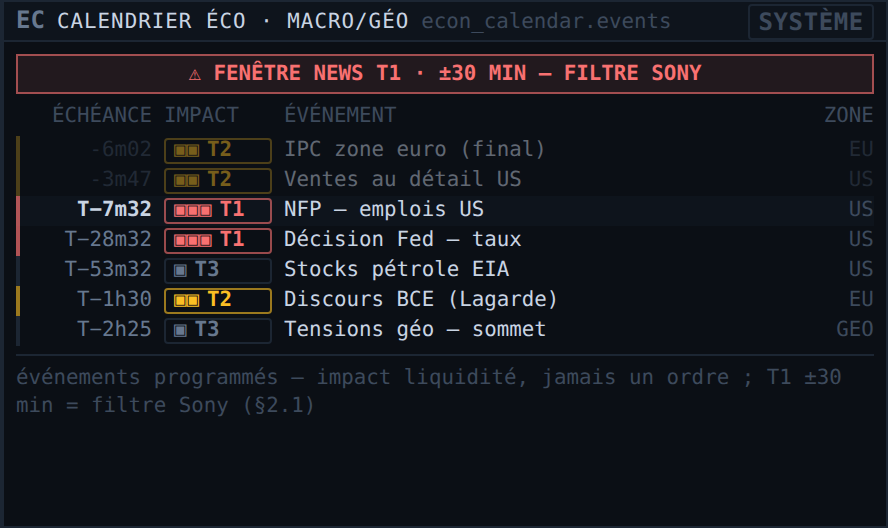
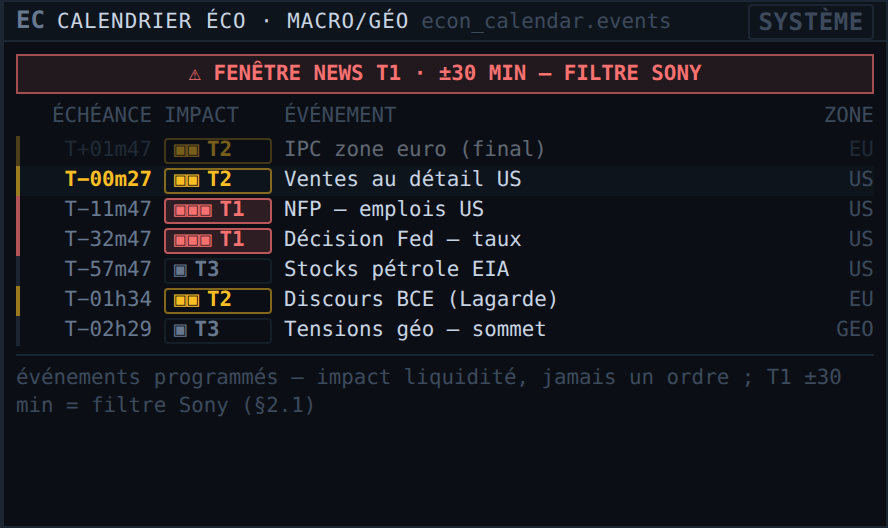
polish(Loop 5) : ergonomie du calendrier éco — hiérarchie T1, imminence, échéances alignées
Loop 5 sur econ_calendar.events (affichage pur, aucun changement de comportement) :
- CONTRASTE D'IMPACT : chip T1 REMPLIE (bg rouge 15 %) — un impact FORT se voit de loin ;
  T2 bordée, T3 discrète ; libellé des T1 à venir en demi-gras. Toujours forme (nb de
  carrés ▣) + code texte T1/T2/T3, jamais la couleur seule (§3)
- IMMINENCE : échéance future ≤ 10 min → countdown en GRAS + teinte du tier (rouge T1 /
  jaune T2) + info-bulle « imminent » ; l'information reste portée par la VALEUR du
  countdown elle-même, le style ne fait qu'appuyer (§3)
- ALIGNEMENT STRICT : échéances à LARGEUR CONSTANTE 7 caractères — nomenclature lancement
  T−/T+ (« T+ » remplace le « - » ambigu pour l'écoulé), corps toujours 5 caractères
  zéro-paddés (T−07m32, T−01h34, T+01m47) → colonne parfaitement rectiligne

Garde-fous : bannières flux muet / périmé / fenêtre T1 et PAS DE DONNÉES intactes ; passé
estompé inchangé ; aucun état dur masqué (§2/§3). Vérifié : tsc · vite build ; capture
réelle docs/econ-calendar.png — alignement 7 chars sur les 7 lignes, T2 imminent gras
jaune surligné, chips T1 remplies.

Claude-Session: https://claude.ai/code/session_01AWEeod2JKSioPMjeLEK9wN

diff --git a/frontend/src/panels/zoneA/EconCalendarPanel.tsx b/frontend/src/panels/zoneA/EconCalendarPanel.tsx
@@ -18,40 +18,59 @@ import type { EconEvent } from '@/types/schema'
 
 const BLACKOUT_S = 30 * 60  // fenêtre Tier-1 ±30 min (reference/MANIFEST §Sony·SVS)
 
-const TIER: Record<number, { squares: string; word: string; cls: string }> = {
-  1: { squares: '▣▣▣', word: 'FORT', cls: 'text-risk-red border-risk-red/60' },
-  2: { squares: '▣▣', word: 'MODÉRÉ', cls: 'text-risk-yellow border-risk-yellow/60' },
-  3: { squares: '▣', word: 'FAIBLE', cls: 'text-term-dim border-term-border' },
+// Hiérarchie visuelle T1 > T2 > T3 : chip T1 REMPLIE (l'impact fort se voit de loin),
+// T2 bordée, T3 discrète — toujours forme (nb de carrés) + code texte, jamais la couleur
+// seule (§3).
+const TIER: Record<number, { squares: string; word: string; cls: string; tint: string }> = {
+  1: { squares: '▣▣▣', word: 'FORT', tint: 'text-risk-red',
+       cls: 'text-risk-red border-risk-red/70 bg-risk-red/15' },
+  2: { squares: '▣▣', word: 'MODÉRÉ', tint: 'text-risk-yellow',
+       cls: 'text-risk-yellow border-risk-yellow/50' },
+  3: { squares: '▣', word: 'FAIBLE', tint: 'text-term-text',
+       cls: 'text-term-dim border-term-border/60' },
 }
 
-/** Compte à rebours précis (H/M/S) vers un `ts` connu. Passé → « il y a … ». */
+const IMMINENT_S = 10 * 60  // échéance ≤ 10 min → countdown accentué
+
+/** Compte à rebours à LARGEUR CONSTANTE (7 caractères, alignement strict) vers un `ts`
+ *  connu. Nomenclature lancement : `T−` avant l'heure H, `T+` après — corps toujours
+ *  5 caractères zéro-paddés (`07m32`, `01h30`). */
 function countdown(secs: number): { label: string; past: boolean } {
   const past = secs < 0
   const a = Math.abs(secs)
   const h = Math.floor(a / 3600), m = Math.floor((a % 3600) / 60), s = Math.floor(a % 60)
   const core = h > 0
-    ? `${h}h${String(m).padStart(2, '0')}`
-    : `${m}m${String(s).padStart(2, '0')}`
-  return { label: past ? `-${core}` : core, past }
+    ? `${String(h).padStart(2, '0')}h${String(m).padStart(2, '0')}`
+    : `${String(m).padStart(2, '0')}m${String(s).padStart(2, '0')}`
+  return { label: `${past ? 'T+' : 'T−'}${core}`, past }
 }
 
 function Row({ e, now, next }: { e: EconEvent; now: number; next: boolean }) {
   const t = TIER[e.tier] ?? TIER[3]
-  const { label, past } = countdown(e.ts - now)
+  const secs = e.ts - now
+  const { label, past } = countdown(secs)
+  // Imminent (≤ 10 min à venir) : gras + teinte du tier. L'imminence reste portée par la
+  // VALEUR du countdown elle-même — le style ne fait qu'appuyer (§3).
+  const imminent = !past && secs <= IMMINENT_S
   return (
     <div className={cn('grid h-[15px] grid-cols-[62px_54px_1fr_34px] items-center gap-x-1.5 border-l-2 pl-1 font-mono text-xxs tabular-nums',
       e.tier === 1 ? 'border-l-risk-red/70' : e.tier === 2 ? 'border-l-risk-yellow/60' : 'border-l-term-border',
       next && 'bg-term-panel2', past && 'opacity-45')}>
-      <span className={cn('text-right', past ? 'text-term-faint' : next ? 'text-term-text font-bold' : 'text-term-dim')}
-        aria-label={past ? 'passé' : 'compte à rebours'}>
-        {past ? label : `T−${label}`}
+      <span className={cn('text-right',
+        past ? 'text-term-faint'
+          : imminent ? cn('font-bold', t.tint)
+            : next ? 'font-bold text-term-text' : 'text-term-dim')}
+        aria-label={past ? 'écoulé depuis' : 'compte à rebours'}
+        title={imminent ? `imminent — sous ${IMMINENT_S / 60} min` : undefined}>
+        {label}
       </span>
       {/* Tier jamais par la couleur seule : carrés pleins (forme) + code texte (§3). */}
       <span className={cn('inline-flex items-center gap-1 rounded-sm border px-1 leading-none', t.cls)}
         title={`impact liquidité ${t.word}`}>
         <span aria-hidden>{t.squares}</span><span className="font-bold">T{e.tier}</span>
       </span>
-      <span className="truncate text-term-text" title={e.name}>{e.name}</span>
+      <span className={cn('truncate text-term-text', e.tier === 1 && !past && 'font-medium')}
+        title={e.name}>{e.name}</span>
       <span className="text-right text-term-faint">{e.region}</span>
     </div>
   )
